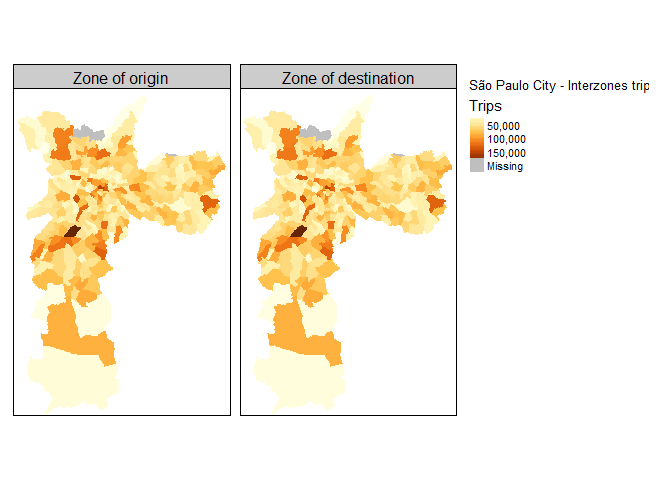
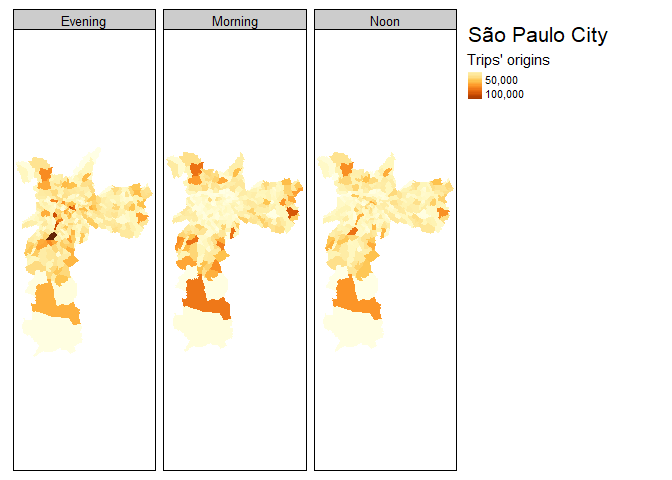
top OD pairs by bike, foot and car + viz adjustments

diff --git a/exploring.md b/exploring.md
@@ -45,10 +45,16 @@ and other):
 
 ![](exploring_files/figure-gfm/unnamed-chunk-6-1.png)<!-- -->
 
+Now the mode share by distance (using the first recategorisation). The
+average trips’ distance is 5305.0981626.
+
+    #> `summarise()` has grouped output by 'dist_bands'. You can override using the `.groups` argument.
+
+![](exploring_files/figure-gfm/unnamed-chunk-7-1.png)<!-- -->
+
 ### Basic temporal analysis
 
-We can look at the number of trips recorded in different days of the
-week as follows:
+Distributions of trips in the day.
 
     #> Warning: Removed 1 row(s) containing missing values (geom_path).
 
@@ -61,7 +67,7 @@ Looking at the same graph but taking into account the minutes
 
 ![](exploring_files/figure-gfm/unnamed-chunk-9-1.png)<!-- -->
 
-### Basic geographic analysis
+### Basic geographic analysis (now with times )
 
 Here I plot the main zones of origin and destination using the total
 number of trips – always using the survey’s expansion factor. It is
@@ -71,35 +77,58 @@ specific types of trips (e.g., commute strictly defined). I checked
 these results with the official Tables and they are the same in terms of
 the main zones of origin and destination.
 
-![](exploring_files/figure-gfm/unnamed-chunk-11-1.png)<!-- -->
-
-Plotting only the São Paulo City.There is no pattern of spatial
-centrality in destinations either.
+Plotting the origin zones by time.
 
 ![](exploring_files/figure-gfm/unnamed-chunk-12-1.png)<!-- -->
 
-I then remove the intrazonal trips and plot the same maps to test
-whether these patterns come from intrazonal trips only. It seems that is
-not the case.
+Plotting the destination zones by time.
 
 ![](exploring_files/figure-gfm/unnamed-chunk-13-1.png)<!-- -->
 
-And the same conclusion applies for São Paulo City…
+Looking at the São Paulo City. First, the origins.
 
 ![](exploring_files/figure-gfm/unnamed-chunk-14-1.png)<!-- -->
 
-#### Active travels and trip patterns
-
-Following the Bristol examples in Robin’s book now. But maybe we should
-zoom in the São Paulo City.
-
-    #> Creating centroids representing desire line start and end points.
+Now, the destinations for São Paulo City.
 
 ![](exploring_files/figure-gfm/unnamed-chunk-15-1.png)<!-- -->
 
-There are still too many zones…
+#### Active travels and trip patterns
+
+(I removed the previous visualizations since they were not saying
+anything about the data.)
+
+Walking and cycling are highly concentrated in few OD pairs (&gt;90% in
+1,000 pairs for walking and &gt;90% in 500 pairs for cycling.). Car
+trips are more dispersed, we have &gt;90% of trips in 10,000 pairs.
+
+Bike trips:
 
     #> Creating centroids representing desire line start and end points.
-    #> Legend labels were too wide. Therefore, legend.text.size has been set to 0.47. Increase legend.width (argument of tm_layout) to make the legend wider and therefore the labels larger.
 
-![](exploring_files/figure-gfm/unnamed-chunk-16-1.png)<!-- -->
+![](exploring_files/figure-gfm/unnamed-chunk-17-1.png)<!-- -->
+
+Foot trips:
+
+    #> Creating centroids representing desire line start and end points.
+
+![](exploring_files/figure-gfm/unnamed-chunk-18-1.png)<!-- -->
+
+Car trips, still too many lines (10,000) to account for &gt;92% of total
+car trips.
+
+    #> Creating centroids representing desire line start and end points.
+
+![](exploring_files/figure-gfm/unnamed-chunk-19-1.png)<!-- -->
+
+Using the first 5,000 OD pairs, we have &gt;78% of all car trips.
+
+    #> Creating centroids representing desire line start and end points.
+
+![](exploring_files/figure-gfm/unnamed-chunk-20-1.png)<!-- -->
+
+Using the biggest 1,000 pairs, we have &gt;45% of all car trips.
+
+    #> Creating centroids representing desire line start and end points.
+
+![](exploring_files/figure-gfm/unnamed-chunk-21-1.png)<!-- -->
